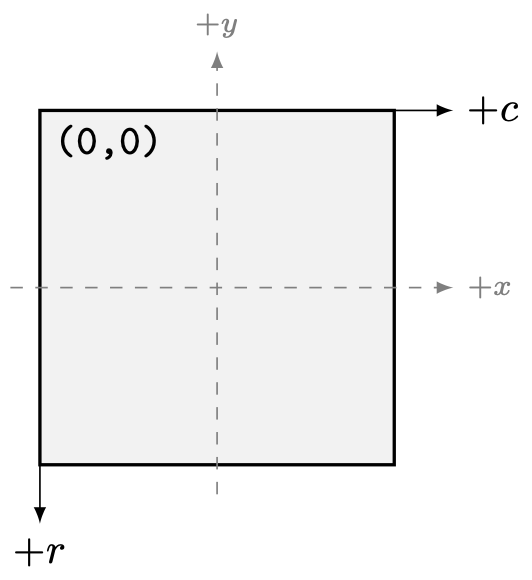
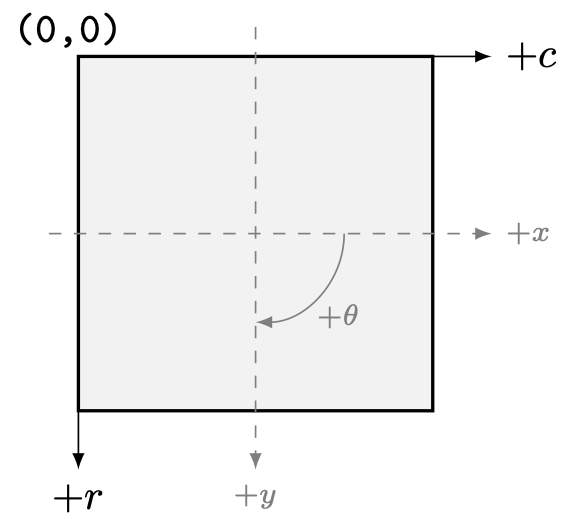
Update internal array storage docs

diff --git a/docs/concepts/coordinate-system.rst b/docs/concepts/coordinate-system.rst
@@ -1,6 +1,8 @@
 Coordinate System
 =================
 
+Overview
+--------
 Lentil adopts the widely used convention of aligning the z-axis along the direction
 of light propagation through an optical system. For a right-handed coordinate system,
 it follows that the remaining axes are oriented as shown in the figure below:
@@ -16,22 +18,26 @@ positive x-axis pointing to the right and the positive y-axis pointing up:
     :width: 225px
     :align: center
 
-Internally, data arrays are stored using the standard "matrix indexing" 
-(i.e., ``ij``) scheme with (0,0) in the upper left corner, columns increasing
-to the right, and rows increasing downwards:
+Angles are measured from +x increasing counterclockwise towards +y. Positive
+array values indicate more positive z (relative to the z-location of the plane)
+and negative values indicate more negative z. 
+
+Array storage
+-------------
+Lentil stores data in standard NumPy arrays with (0, 0) in the first row and
+column. The physical x-axis runs along columns with +x increasing with column
+index and the physical y-axis runs along rows with +y increasing with row
+index, measured from the center pixel at ``(nrows//2, ncols//2)``. This is the
+same convention used by `numpy.meshgrid`.
+
+Functions that accept or return coordinates take an ``indexing`` argument that
+controls only the order of those values: ``(x, y)`` for ``'xy'`` and
+``(r, c)`` for ``'ij'``. Indexing does not change how data is stored
+internally.
 
 .. image:: /_static/img/coords_2d_internal.png
     :width: 225px
     :align: center
-
-Positive array values indicate more positive z (relative to the z-location of
-the plane) and negative values indicate more negative z. 
-
-.. note::
-
-    Because Lentil stores physical (x, y) coordinates directly in arrays
-    ordered as (r, c), you can't infer physical orientation from the array
-    indices where data is stored. 
 
 Wavefront error sign convention
 -------------------------------
@@ -54,24 +60,18 @@ Plotting
 --------
 Matplotlib's ``imshow()`` method (and MATLAB's ``imagesc()`` method) place the
 origin in the upper left corner of the plotted image by default. This displays
-arrays in the standard "matrix indexing" (i.e., ``ij``) scheme with (0,0) in
+arrays in the standard "matrix indexing" (i.e., ``'ij'``) scheme with (0,0) in
 the upper left corner, columns increasing to the right, and rows increasing 
-downwards. Because this is also how Lentil stores its array data, plots made
-using this default behavior will be correctly oriented with respect to 
-Lentil's coordinate frame.
+downwards. Because Lentil stores data with +y increasing with row index,
+arrays plotted using the Matplotlib default will be flipped top to bottom.
+Plotting with ``origin='lower'`` displays arrays in their correct (physical)
+orientation:
+
+.. code:: python
+
+   ax.imshow(opd, origin='lower', extent=[-0.5, 0.5, -0.5, 0.5])
+
 
 .. image:: /_static/img/matplotlib_origin.png
     :width: 500px
     :align: center
-
-When using ``imshow()``, it can also be helpful to provide the ``extent``
-parameter, which defines the physical coordinates of the array being plotted.
-Extent ``should`` be given as ``(xmin, xmax, ymin, ymax)``:
-
-.. plot::
-    :context: reset
-    :include-source:
-    :scale: 50
-
-    fig, ax = plt.subplots()
-    ax.imshow(lentil.circle((256,256), 120), extent=[-0.5, 0.5, -0.5, 0.5])
